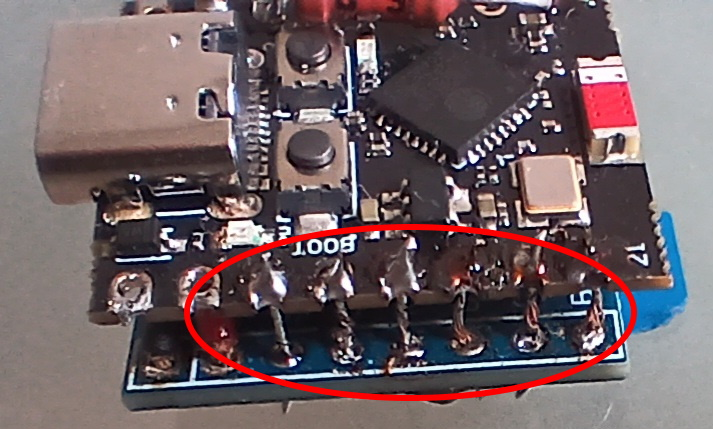
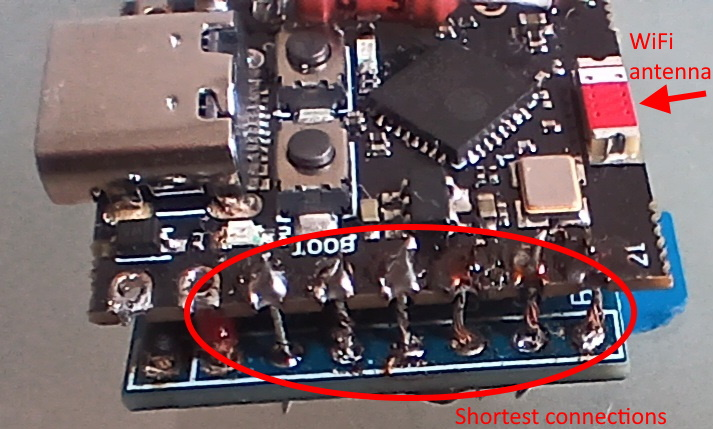
readme_update2

Changed region(s): [[0.6171, 0.9394, 0.9565, 1.0], [0.864, 0.1515, 1.0, 0.2727], [0.864, 0.0606, 0.9565, 0.1212]]

diff --git a/README.md b/README.md
@@ -12,7 +12,7 @@ Existing libraries failed to support the non-standard 76x284 resolution and inte
 
 
 ### 1.2. High-Frequency Hardware Integration & EMI Mitigation
-During prototyping, long trace lengths led to significant RF interference between the WiFi antenna and the SPI bus/PWM signals. So I optimized physical pinout which allows reduce betwing boards connection lengths to <5mm for critical high-speed lines (SCLK, MOSI). This effectively eliminated signal crosstalk and ensured stable work of SPI and WiFi.
+During prototyping, long trace lengths led to significant RF interference between the WiFi antenna and the SPI bus/PWM signals. So I optimized physical pinout which allows reduce betwing boards connection lengths to <5mm for critical high-speed lines (SCLK, MOSI) and move the antenna to the edge of the device. This effectively eliminated signal crosstalk and ensured stable work of SPI and WiFi.
 
 **NB !** 
 - SCLK: 7
@@ -23,7 +23,7 @@ During prototyping, long trace lengths led to significant RF interference betwee
 - Backlight (BL): 21
 - Battery ADC: 0
 
- this ESP32 to LCD pinout is recomended  to keep connections as short as possible and prevent EMI.
+ this ESP32 to LCD pinout is recomended to keep connections as short as possible and WiFi antenna on the edge of the device which prevents EMI.
 
 <img src="images/boards0.jpg" alt="interbord connection" width="200">
 
@@ -68,19 +68,30 @@ The helper.cpp file provides procedures for
 ## 3. Software Installation notes
 I have used PlatformIO IDE extension in VS Code. After cloning repository do not forget that Filesystem Image and main code should be uploaded separatelly:
 
-- 3.1. upload to ESP32 filesystem: Open the PlatformIO sidebar, go to Project Tasks > Platform > Build Filesystem Image, click Upload Filesystem Image.
+- Upload to ESP32 filesystem: Open the PlatformIO sidebar, go to Project Tasks > Platform > Build Filesystem Image, click Upload Filesystem Image.
 
- - 3.2.upload Code: click the standard Upload arrow icon.
+ - Upload Code: click the standard Upload arrow icon.
 
 ## 4. Usage
 - On power on the badge generates a unique SSID based on its MAC address.
 <img src="images/displ0.jpg" alt="WiFi connection screen" width="300">
+
 - You can scan the QR code on the display or manually connect to the WiFi using password on screen.
+
 - Visit 192.168.4.1 in your browser.
+
 <img src="images/server0.jpg" alt="server initial page" width="300">
+
 - Input Title (Name), Subtitle (Position or Surname), and string for generating QR Code (Link), choose colors and brightness.
+
+**Remark:** In case of Subtitle is not used Title field font and position will be automaticaly adjusten for beter visibility .
+
 <img src="images/server1.jpg" alt="server page with user input" width="300">
-- Use the Test button to preview. Once satisfied, press Finish.
+
+- Use the Test button to preview your design. Once satisfied, press Finish.
+
 <img src="images/displ1.jpg" alt="display 3 fields" width="300">
+
 <img src="images/displ2.jpg" alt="display 1 field" width="300">
+
 - The badge will keep screen on, but enters sleep mode, waking briefly every 60 seconds to monitor battery and dispaly remaining time.
